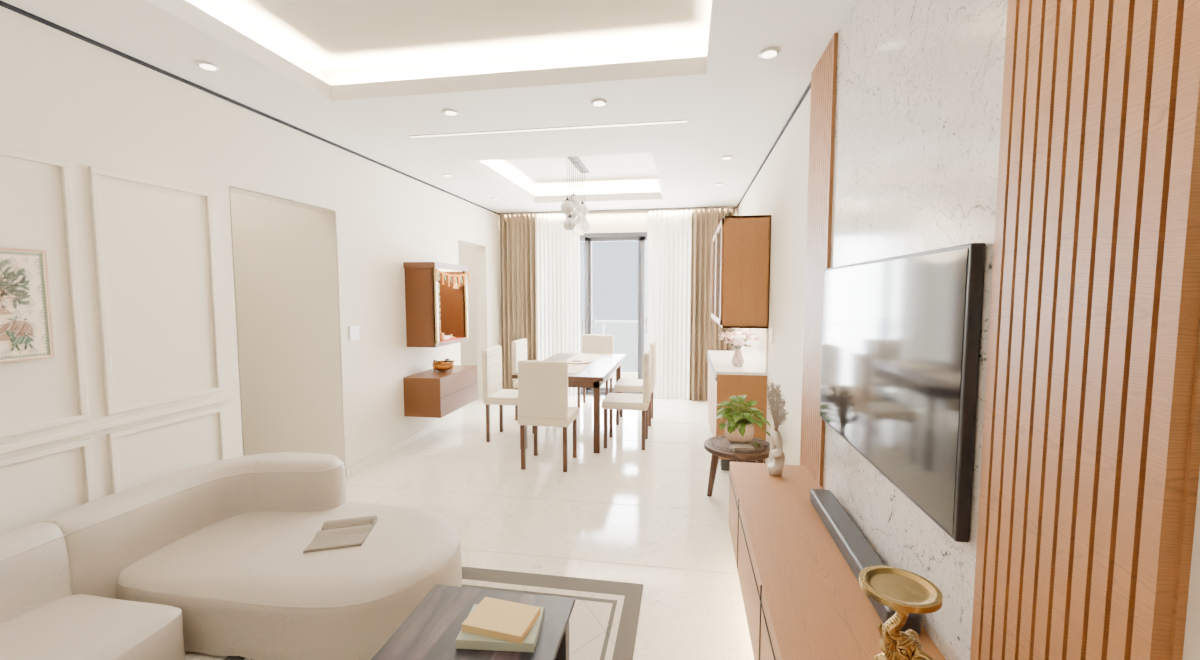
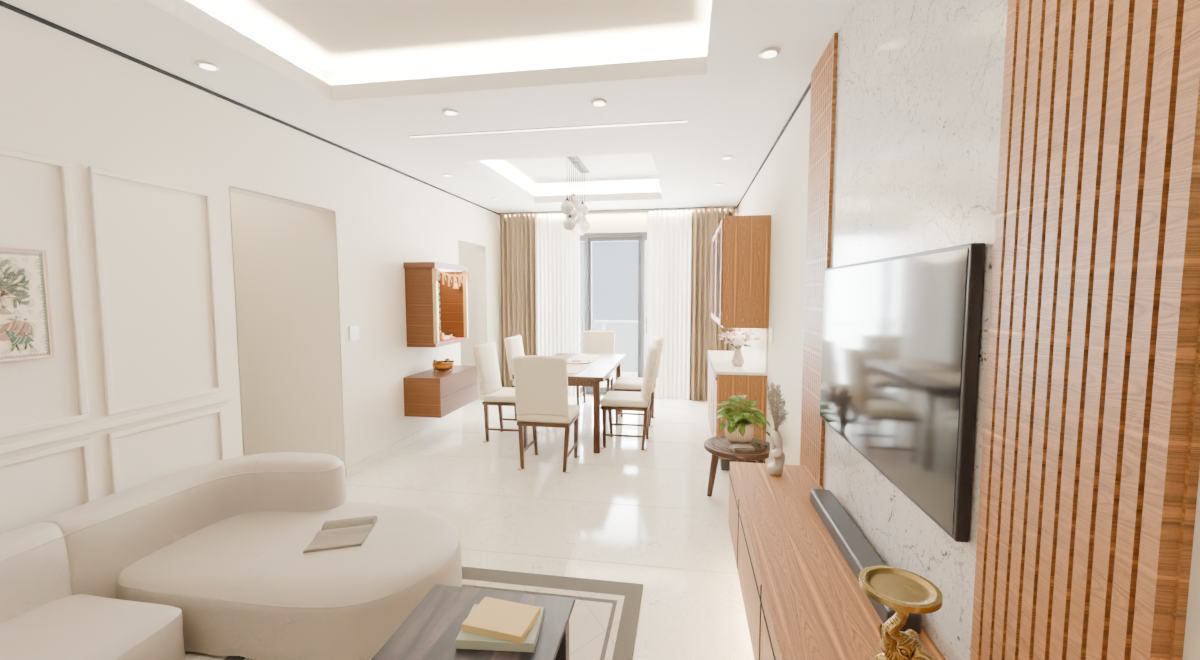
Noida Hall v4 (not baked): walnut-veneer wood grain at kitchen contrast, bevelled cabinetry, clearer smoked glass reflecting the room in the viewer, upholstered chairs (raked curved back, tapered legs, stretchers, brass caps), thicker table top, crockery LED and mandir jaali dimmed

diff --git a/mocks/room-hall/viewer.html b/mocks/room-hall/viewer.html
@@ -409,6 +409,8 @@ async function loadRoom(file = ROOM_FILE) {
       m.material = bakedMaterial(m.material);
     }
     if (/Kitchen|Corridor/i.test(nm)) m.material.side = THREE.DoubleSide;
+    // v4: glass (crockery doors, balcony) reflects the room itself, like a real pane, not the studio env
+    if (/Glass/i.test(m.material.name || '')) { m.material.envMapIntensity = 1.8; m.material.roughness = Math.min(m.material.roughness, 0.03); glassMats.push(m.material); }
   });
   // Contact shadows (2 Nov 2026). A small prop's shadow in the lightmap is too soft to read (the breakfast tray
   // looked as if it floated over the duvet), so placements.json can lay a soft dark patch under one:
@@ -481,6 +483,7 @@ const BAKED_LIGHTS = THREE.ShaderChunk.lights_fragment_begin
   .replace('getAmbientLightIrradiance( ambientLightColor )', 'vec3( 0.0 )')
   .replace(/defined\( USE_LIGHT_PROBES \)/g, 'defined( BAKED_NO_PROBES )');
 const bakedMats = [];
+const glassMats = [];
 const BAKED_EXPOSURE = 1.3;   // as the Quiet Bath: the bake's gain is set by its brightest walls (the cove band may clip)
 function bakedMaterial(src, lift = 1) {
   lift *= BAKED_EXPOSURE;
@@ -506,6 +509,7 @@ function captureRoomEnv() {
   const env = pmrem.fromCubemap(rt.texture).texture; rt.dispose();
   const old = bakedMats[0] && bakedMats[0].envMap;            // captured again once the products are in
   for (const m of bakedMats) { m.envMap = env; m.needsUpdate = true; }
+  for (const m of glassMats) { m.envMap = env; m.needsUpdate = true; }
   if (old) old.dispose();
 }
 

diff --git a/mocks/room-hall/build_hall_v1.py b/mocks/room-hall/build_hall_v1.py
@@ -232,8 +232,16 @@ LAM = (0.60, 0.41, 0.23)
 OAKD = 'oak_veneer_03/oak_veneer_03_diff_2k.jpg'; OAKN = 'oak_veneer_03/oak_veneer_03_nor_gl_2k.jpg'; OAKR = 'oak_veneer_03/oak_veneer_03_rough_2k.jpg'
 LIN = 'rough_linen/rough_linen_diff_2k.jpg'; LINN = 'rough_linen/rough_linen_nor_gl_2k.jpg'
 PLD = 'beige_wall_001/beige_wall_001_diff_2k.jpg'; PLN = 'beige_wall_001/beige_wall_001_nor_gl_2k.jpg'
+WVD = 'walnut_veneer/walnut_veneer_Diffuse_2k.jpg'; WVN = 'walnut_veneer/walnut_veneer_nor_gl_2k.jpg'
 def wood(name, col, contrast, rough=0.45):
-    return pbr(name, scan_img(OAKD, 2048, recolour=col, contrast=contrast, rot90=True), scan_img(OAKN, 1024, False, rot90=True), None, rough=rough, nstr=0.35)
+    # v4 (his 11-21 review: the hall's wood "doesn't look like wood"): the kitchen's walnut-veneer scan, grain pushed as hard
+    # as the kitchen's cabinets (contrast ~1.9) and a pore normal that catches the room's reflection
+    return pbr(name, scan_img(WVD, 2048, recolour=col, contrast=contrast * 1.45), scan_img(WVN, 1024, False), None, rough=rough, nstr=0.6)
+def bev(o, w=0.004):
+    # v4: rounded edges on joined cabinetry so every edge catches a highlight (sharp boxes read as flat cut-outs)
+    bpy.ops.object.select_all(action='DESELECT'); o.select_set(True); bpy.context.view_layer.objects.active = o
+    md = o.modifiers.new('bev', 'BEVEL'); md.width = w; md.segments = 2; md.limit_method = 'ANGLE'; md.harden_normals = False
+    bpy.ops.object.modifier_apply(modifier=md.name); return o
 M = {
     'wall': pbr('Warm White Paint', scan_img('beige_wall_001/beige_wall_001_diff_2k.jpg', 1024, recolour=(0.91, 0.88, 0.82), contrast=0.25),
                 scan_img('beige_wall_001/beige_wall_001_nor_gl_2k.jpg', 1024, False), None, rough=0.85, nstr=0.4),
@@ -255,7 +263,7 @@ M = {
     'gypsum': pbr('Gypsum White', scan_img(PLD, 1024, recolour=(0.94, 0.93, 0.90), contrast=0.1), scan_img(PLN, 1024, False), None, rough=0.85, nstr=0.12),
     'alu': mat('Dark Grey Aluminium', (0.10, 0.10, 0.11, 1), 0.4),
     'glass': mat('Glass', (0.85, 0.90, 0.92, 1), 0.02, alpha=0.08),
-    'bronzeglass': mat('Bronze Glass', (0.20, 0.15, 0.10, 1), 0.05, alpha=0.45),
+    'bronzeglass': mat('Smoked Glass', (0.42, 0.38, 0.33, 1), 0.02, alpha=0.22),
     'mirror': mat('Mirror', (0.70, 0.72, 0.74, 1), 0.03, 1.0),
     'matblack': mat('Matte Black', (0.02, 0.02, 0.022, 1), 0.45),
     'tvblack': mat('TV Screen', (0.008, 0.009, 0.011, 1), 0.08),
@@ -452,7 +460,7 @@ dado = join(mo, 'LM_Dado'); world_uv(dado, 3.0); lm(dado, 256)
 sc = [bx('Shoe Cab', X1 - 0.35, X1, -3.80, -2.90, 0.15, 0.95, M['oak']), bx('Shoe Top', X1 - 0.36, X1, -3.81, -2.89, 0.95, 0.975, M['quartz']),
       bx('Shoe Gap', X1 - 0.353, X1 - 0.35, -3.352, -3.348, 0.16, 0.94, M['gap']), bx('Shoe Glow', X1 - 0.30, X1 - 0.05, -3.75, -2.95, 0.145, 0.15, M['led']),
       bx('Shoe Handle', X1 - 0.362, X1 - 0.35, -3.79, -2.91, 0.905, 0.935, M['alu']), bx('Shoe Edge', X1 - 0.351, X1 - 0.35, -3.80, -2.90, 0.15, 0.152, M['gap'])]
-shoe = join(sc, 'LM_ShoeCab'); world_uv(shoe, 1.2); lm(shoe, 512)
+shoe = bev(join(sc, 'LM_ShoeCab')); world_uv(shoe, 1.2); lm(shoe, 512)
 CU0, CU1 = 0.95, 2.55; CD = 0.42
 cu = [bx('CU Plinth', X1 - CD + 0.05, X1, CU0, CU1, 0, 0.10, M['matblack']), bx('CU Base', X1 - CD, X1, CU0, CU1, 0.10, 0.85, M['oak']),
       bx('CU Top', X1 - CD - 0.01, X1, CU0 - 0.01, CU1 + 0.01, 0.85, 0.875, M['quartz']), bx('CU Niche Back', X1 - 0.015, X1, CU0, CU1, 0.875, 1.25, M['whitemarble']),
@@ -466,10 +474,11 @@ cu += [bx('CU Glass Shelf Edge', X1 - 0.37, X1 - 0.012, CU0 + 0.02, CU1 - 0.02, 
 for a, b in ((CU0 + 0.02, (CU0 + CU1) / 2 - 0.01), ((CU0 + CU1) / 2 + 0.01, CU1 - 0.02)):          # glass doors' oak frames
     for xa, xb, za, zb in ((a, b, 1.27, 1.32), (a, b, 2.13, 2.18), (a, a + 0.05, 1.32, 2.13), (b - 0.05, b, 1.32, 2.13)):
         cu.append(bx('CU Door Frame', X1 - 0.40, X1 - 0.38, xa, xb, za, zb, M['oak']))
-crock = join(cu, 'LM_Crockery'); world_uv(crock, 1.2); lm(crock, 2048)
+crock = bev(join(cu, 'LM_Crockery')); world_uv(crock, 1.2); lm(crock, 2048)
 for a, b in ((CU0 + 0.07, (CU0 + CU1) / 2 - 0.06), ((CU0 + CU1) / 2 + 0.06, CU1 - 0.07)):
     g_ = bx('CU Glass', X1 - 0.395, X1 - 0.39, a, b, 1.32, 2.13, M['bronzeglass']); g_.visible_shadow = False; GLASS.append(g_)
-glow += [bx('CU Glow', X1 - 0.30, X1 - 0.05, CU0 + 0.05, CU1 - 0.05, 1.245, 1.25, M['led'])]
+CUGLOW = mat('Cabinet LED (soft)', (1, 0.9, 0.75, 1), 0.5, emit=((1.0, 0.85, 0.62, 1), 2.2))   # v4: was the 6.0 LED strip
+glow += [bx('CU Glow', X1 - 0.30, X1 - 0.05, CU0 + 0.05, CU1 - 0.05, 1.245, 1.25, CUGLOW)]
 
 # ---------------------------------------------------------------- mandir on the left wall (between kitchen and passage): drawer unit, temple box, arch glow
 MY0, MY1 = 1.15, 2.05; MC = (MY0 + MY1) / 2
@@ -478,7 +487,7 @@ md = [bx('Mandir Drawers', X0, X0 + 0.40, MY0, MY1, 0.30, 0.70, M['teak']), bx('
       bx('Mandir Side', X0, X0 + 0.30, MY0 + 0.08, MY0 + 0.12, 1.04, 1.80, M['teak']), bx('Mandir Side', X0, X0 + 0.30, MY1 - 0.12, MY1 - 0.08, 1.04, 1.80, M['teak']),
       bx('Mandir Back', X0, X0 + 0.012, MY0 + 0.12, MY1 - 0.12, 1.04, 1.80, M['white']),
       bx('Mandir Pillar', X0 + 0.30, X0 + 0.34, MY0 + 0.08, MY0 + 0.12, 1.04, 1.80, M['brass']), bx('Mandir Pillar', X0 + 0.30, X0 + 0.34, MY1 - 0.12, MY1 - 0.08, 1.04, 1.80, M['brass'])]
-mandir = join(md, 'LM_Mandir'); world_uv(mandir, 1.0, vertical_grain=True); lm(mandir, 1024)
+mandir = bev(join(md, 'LM_Mandir')); world_uv(mandir, 1.0, vertical_grain=True); lm(mandir, 1024)
 glow += [bx('Mandir Glow', X0 + 0.02, X0 + 0.30, MY0 + 0.13, MY1 - 0.13, 1.795, 1.80, M['led'])]
 # v2 mandir detail: a backlit CNC jaali (overlapping-circle lotus lattice in teak over warm light) behind the idol
 def jaali_image():
@@ -494,7 +503,7 @@ def jaali_image():
     return SL.img('jaali_col', np.clip(rgb, 0, 1), TMP)
 JAALI = mat('Jaali Backlit', (0, 0, 0, 1), 0.6)
 _jb = JAALI.node_tree.nodes['Principled BSDF']; _jt = JAALI.node_tree.nodes.new('ShaderNodeTexImage'); _jt.image = jaali_image()
-JAALI.node_tree.links.new(_jt.outputs['Color'], _jb.inputs['Emission Color']); _jb.inputs['Emission Strength'].default_value = 2.2
+JAALI.node_tree.links.new(_jt.outputs['Color'], _jb.inputs['Emission Color']); _jb.inputs['Emission Strength'].default_value = 1.2   # v4: was 2.2
 _jo = bx('Mandir Jaali', X0 + 0.012, X0 + 0.016, MY0 + 0.12, MY1 - 0.12, 1.08, 1.795, JAALI); world_uv(_jo, 0.56); glow.append(_jo)   # 14 cm flowers
 for g_ in glow: g_.visible_shadow = False
 
@@ -545,16 +554,44 @@ def lathe(name, prof, m, loc, seg=40):
     o = SL.lathe(name, prof, m, seg=seg); o.location = loc; STAGE.append(o); return o
 def S(o): STAGE.append(o); return o
 TX, TY = -0.15, 2.05
-S(box('Table Top', (TX, TY, 0.74), (0.90, 1.80, 0.04), M['walnut'], 0.004))
+S(box('Table Top', (TX, TY, 0.737), (0.90, 1.80, 0.046), M['walnut'], 0.008))
 for sx in (-1, 1):
     for sy in (-1, 1): S(box('Table Leg', (TX + sx * 0.37, TY + sy * 0.80, 0.36), (0.06, 0.06, 0.72), M['walnut'], 0.004))
 S(box('Table Apron', (TX, TY, 0.68), (0.68, 1.54, 0.08), M['walnut'], 0.003))     # set between the legs (a shared face baked black)
 for o in STAGE: world_uv(o, 1.2)
 def chair(x, y, rz):
+    """v4: an upholstered dining chair: a thick cushioned seat with a sewn welt, a back that rakes 8 degrees and curves
+    round the sitter (a bent panel), a walnut frame showing under the seat, tapered splayed legs with brass caps and
+    side stretchers. Front of the chair is -y in its own frame."""
     from mathutils import Matrix
-    parts = [box('Seat', (0, 0, 0.44), (0.46, 0.46, 0.08), M['fabric'], 0.02), box('Back', (0, 0.21, 0.72), (0.44, 0.06, 0.50), M['fabric'], 0.02)]
-    for lx in (-0.19, 0.19):
-        for ly in (-0.19, 0.19): parts.append(box('Chair Leg', (lx, ly, 0.20), (0.035, 0.035, 0.40), M['walnut'], 0.003))
+    import bmesh as _bm
+    parts = []
+    # seat cushion: a rounded slab (bevel 2.5 cm) on a walnut seat frame
+    parts.append(box('Seat Frame', (0, 0, 0.415), (0.47, 0.47, 0.035), M['walnut'], 0.006))
+    parts.append(box('Seat', (0, -0.005, 0.465), (0.48, 0.47, 0.07), M['fabric'], 0.028, segs=4))
+    parts.append(box('Seat Welt', (0, -0.245, 0.462), (0.44, 0.012, 0.012), M['fabric'], 0.005))
+    # back: a curved, raked panel (bent in an arc of 0.06 m sag), padded
+    bpy.ops.mesh.primitive_cube_add(size=1); bk = bpy.context.active_object; bk.name = 'Back'
+    bk.scale = (0.46, 0.07, 0.52); bpy.ops.object.transform_apply(scale=True)
+    bm = _bm.new(); bm.from_mesh(bk.data)
+    _bm.ops.subdivide_edges(bm, edges=[e for e in bm.edges if abs(e.verts[0].co.x - e.verts[1].co.x) > 0.1], cuts=10, use_grid_fill=True)
+    for v in bm.verts: v.co.y += 0.05 * (2 * v.co.x / 0.46) ** 2          # a squared panel that wraps round the sitter
+    bm.to_mesh(bk.data); bm.free()
+    md = bk.modifiers.new('bev', 'BEVEL'); md.width = 0.022; md.segments = 4; md.limit_method = 'ANGLE'
+    bpy.ops.object.modifier_apply(modifier=md.name)          # padded, rounded edges (a smooth box, not an egg)
+    bk.data.materials.append(M['fabric'])
+    bk.rotation_euler = (math.radians(-8), 0, 0); bk.location = (0, 0.215, 0.76)
+    bpy.ops.object.transform_apply(location=True, rotation=True)
+    for p in bk.data.polygons: p.use_smooth = True
+    parts.append(bk)
+    # legs: tapered (4 cm at the seat to 2.6 cm at the floor), splayed 3 degrees, brass caps
+    for lx in (-0.20, 0.20):
+        for ly in (-0.20, 0.20):
+            bpy.ops.mesh.primitive_cone_add(vertices=4, radius1=0.019, radius2=0.028, depth=0.40, location=(lx, ly, 0.20))
+            lg = bpy.context.active_object; lg.name = 'Chair Leg'; lg.rotation_euler = (math.radians(-3 * (ly > 0) + 3 * (ly < 0)), math.radians(3 * (lx > 0) - 3 * (lx < 0)), math.pi / 4)
+            bpy.ops.object.transform_apply(location=True, rotation=True); lg.data.materials.append(M['walnut']); parts.append(lg)
+            parts.append(box('Leg Cap', (lx * 1.08, ly * 1.08, 0.008), (0.03, 0.03, 0.016), M['brass'], 0.004))
+        parts.append(box('Stretcher', (lx * 1.04, 0, 0.14), (0.018, 0.38, 0.022), M['walnut'], 0.004))
     o = SL.join(parts, 'Dining Chair'); o.matrix_world = Matrix.Translation((x, y, 0)) @ Matrix.Rotation(rz, 4, 'Z'); STAGE.append(o)
     bpy.context.view_layer.update(); world_uv(o, 0.45)
 for yy in (TY - 0.45, TY + 0.45):

diff --git a/mocks/room-hall/hall_body.py b/mocks/room-hall/hall_body.py
@@ -40,8 +40,16 @@ LAM = (0.60, 0.41, 0.23)
 OAKD = 'oak_veneer_03/oak_veneer_03_diff_2k.jpg'; OAKN = 'oak_veneer_03/oak_veneer_03_nor_gl_2k.jpg'; OAKR = 'oak_veneer_03/oak_veneer_03_rough_2k.jpg'
 LIN = 'rough_linen/rough_linen_diff_2k.jpg'; LINN = 'rough_linen/rough_linen_nor_gl_2k.jpg'
 PLD = 'beige_wall_001/beige_wall_001_diff_2k.jpg'; PLN = 'beige_wall_001/beige_wall_001_nor_gl_2k.jpg'
+WVD = 'walnut_veneer/walnut_veneer_Diffuse_2k.jpg'; WVN = 'walnut_veneer/walnut_veneer_nor_gl_2k.jpg'
 def wood(name, col, contrast, rough=0.45):
-    return pbr(name, scan_img(OAKD, 2048, recolour=col, contrast=contrast, rot90=True), scan_img(OAKN, 1024, False, rot90=True), None, rough=rough, nstr=0.35)
+    # v4 (his 11-21 review: the hall's wood "doesn't look like wood"): the kitchen's walnut-veneer scan, grain pushed as hard
+    # as the kitchen's cabinets (contrast ~1.9) and a pore normal that catches the room's reflection
+    return pbr(name, scan_img(WVD, 2048, recolour=col, contrast=contrast * 1.45), scan_img(WVN, 1024, False), None, rough=rough, nstr=0.6)
+def bev(o, w=0.004):
+    # v4: rounded edges on joined cabinetry so every edge catches a highlight (sharp boxes read as flat cut-outs)
+    bpy.ops.object.select_all(action='DESELECT'); o.select_set(True); bpy.context.view_layer.objects.active = o
+    md = o.modifiers.new('bev', 'BEVEL'); md.width = w; md.segments = 2; md.limit_method = 'ANGLE'; md.harden_normals = False
+    bpy.ops.object.modifier_apply(modifier=md.name); return o
 M = {
     'wall': pbr('Warm White Paint', scan_img('beige_wall_001/beige_wall_001_diff_2k.jpg', 1024, recolour=(0.91, 0.88, 0.82), contrast=0.25),
                 scan_img('beige_wall_001/beige_wall_001_nor_gl_2k.jpg', 1024, False), None, rough=0.85, nstr=0.4),
@@ -63,7 +71,7 @@ M = {
     'gypsum': pbr('Gypsum White', scan_img(PLD, 1024, recolour=(0.94, 0.93, 0.90), contrast=0.1), scan_img(PLN, 1024, False), None, rough=0.85, nstr=0.12),
     'alu': mat('Dark Grey Aluminium', (0.10, 0.10, 0.11, 1), 0.4),
     'glass': mat('Glass', (0.85, 0.90, 0.92, 1), 0.02, alpha=0.08),
-    'bronzeglass': mat('Bronze Glass', (0.20, 0.15, 0.10, 1), 0.05, alpha=0.45),
+    'bronzeglass': mat('Smoked Glass', (0.42, 0.38, 0.33, 1), 0.02, alpha=0.22),
     'mirror': mat('Mirror', (0.70, 0.72, 0.74, 1), 0.03, 1.0),
     'matblack': mat('Matte Black', (0.02, 0.02, 0.022, 1), 0.45),
     'tvblack': mat('TV Screen', (0.008, 0.009, 0.011, 1), 0.08),
@@ -260,7 +268,7 @@ dado = join(mo, 'LM_Dado'); world_uv(dado, 3.0); lm(dado, 256)
 sc = [bx('Shoe Cab', X1 - 0.35, X1, -3.80, -2.90, 0.15, 0.95, M['oak']), bx('Shoe Top', X1 - 0.36, X1, -3.81, -2.89, 0.95, 0.975, M['quartz']),
       bx('Shoe Gap', X1 - 0.353, X1 - 0.35, -3.352, -3.348, 0.16, 0.94, M['gap']), bx('Shoe Glow', X1 - 0.30, X1 - 0.05, -3.75, -2.95, 0.145, 0.15, M['led']),
       bx('Shoe Handle', X1 - 0.362, X1 - 0.35, -3.79, -2.91, 0.905, 0.935, M['alu']), bx('Shoe Edge', X1 - 0.351, X1 - 0.35, -3.80, -2.90, 0.15, 0.152, M['gap'])]
-shoe = join(sc, 'LM_ShoeCab'); world_uv(shoe, 1.2); lm(shoe, 512)
+shoe = bev(join(sc, 'LM_ShoeCab')); world_uv(shoe, 1.2); lm(shoe, 512)
 CU0, CU1 = 0.95, 2.55; CD = 0.42
 cu = [bx('CU Plinth', X1 - CD + 0.05, X1, CU0, CU1, 0, 0.10, M['matblack']), bx('CU Base', X1 - CD, X1, CU0, CU1, 0.10, 0.85, M['oak']),
       bx('CU Top', X1 - CD - 0.01, X1, CU0 - 0.01, CU1 + 0.01, 0.85, 0.875, M['quartz']), bx('CU Niche Back', X1 - 0.015, X1, CU0, CU1, 0.875, 1.25, M['whitemarble']),
@@ -274,10 +282,11 @@ cu += [bx('CU Glass Shelf Edge', X1 - 0.37, X1 - 0.012, CU0 + 0.02, CU1 - 0.02, 
 for a, b in ((CU0 + 0.02, (CU0 + CU1) / 2 - 0.01), ((CU0 + CU1) / 2 + 0.01, CU1 - 0.02)):          # glass doors' oak frames
     for xa, xb, za, zb in ((a, b, 1.27, 1.32), (a, b, 2.13, 2.18), (a, a + 0.05, 1.32, 2.13), (b - 0.05, b, 1.32, 2.13)):
         cu.append(bx('CU Door Frame', X1 - 0.40, X1 - 0.38, xa, xb, za, zb, M['oak']))
-crock = join(cu, 'LM_Crockery'); world_uv(crock, 1.2); lm(crock, 2048)
+crock = bev(join(cu, 'LM_Crockery')); world_uv(crock, 1.2); lm(crock, 2048)
 for a, b in ((CU0 + 0.07, (CU0 + CU1) / 2 - 0.06), ((CU0 + CU1) / 2 + 0.06, CU1 - 0.07)):
     g_ = bx('CU Glass', X1 - 0.395, X1 - 0.39, a, b, 1.32, 2.13, M['bronzeglass']); g_.visible_shadow = False; GLASS.append(g_)
-glow += [bx('CU Glow', X1 - 0.30, X1 - 0.05, CU0 + 0.05, CU1 - 0.05, 1.245, 1.25, M['led'])]
+CUGLOW = mat('Cabinet LED (soft)', (1, 0.9, 0.75, 1), 0.5, emit=((1.0, 0.85, 0.62, 1), 2.2))   # v4: was the 6.0 LED strip
+glow += [bx('CU Glow', X1 - 0.30, X1 - 0.05, CU0 + 0.05, CU1 - 0.05, 1.245, 1.25, CUGLOW)]
 
 # ---------------------------------------------------------------- mandir on the left wall (between kitchen and passage): drawer unit, temple box, arch glow
 MY0, MY1 = 1.15, 2.05; MC = (MY0 + MY1) / 2
@@ -286,7 +295,7 @@ md = [bx('Mandir Drawers', X0, X0 + 0.40, MY0, MY1, 0.30, 0.70, M['teak']), bx('
       bx('Mandir Side', X0, X0 + 0.30, MY0 + 0.08, MY0 + 0.12, 1.04, 1.80, M['teak']), bx('Mandir Side', X0, X0 + 0.30, MY1 - 0.12, MY1 - 0.08, 1.04, 1.80, M['teak']),
       bx('Mandir Back', X0, X0 + 0.012, MY0 + 0.12, MY1 - 0.12, 1.04, 1.80, M['white']),
       bx('Mandir Pillar', X0 + 0.30, X0 + 0.34, MY0 + 0.08, MY0 + 0.12, 1.04, 1.80, M['brass']), bx('Mandir Pillar', X0 + 0.30, X0 + 0.34, MY1 - 0.12, MY1 - 0.08, 1.04, 1.80, M['brass'])]
-mandir = join(md, 'LM_Mandir'); world_uv(mandir, 1.0, vertical_grain=True); lm(mandir, 1024)
+mandir = bev(join(md, 'LM_Mandir')); world_uv(mandir, 1.0, vertical_grain=True); lm(mandir, 1024)
 glow += [bx('Mandir Glow', X0 + 0.02, X0 + 0.30, MY0 + 0.13, MY1 - 0.13, 1.795, 1.80, M['led'])]
 # v2 mandir detail: a backlit CNC jaali (overlapping-circle lotus lattice in teak over warm light) behind the idol
 def jaali_image():
@@ -302,7 +311,7 @@ def jaali_image():
     return SL.img('jaali_col', np.clip(rgb, 0, 1), TMP)
 JAALI = mat('Jaali Backlit', (0, 0, 0, 1), 0.6)
 _jb = JAALI.node_tree.nodes['Principled BSDF']; _jt = JAALI.node_tree.nodes.new('ShaderNodeTexImage'); _jt.image = jaali_image()
-JAALI.node_tree.links.new(_jt.outputs['Color'], _jb.inputs['Emission Color']); _jb.inputs['Emission Strength'].default_value = 2.2
+JAALI.node_tree.links.new(_jt.outputs['Color'], _jb.inputs['Emission Color']); _jb.inputs['Emission Strength'].default_value = 1.2   # v4: was 2.2
 _jo = bx('Mandir Jaali', X0 + 0.012, X0 + 0.016, MY0 + 0.12, MY1 - 0.12, 1.08, 1.795, JAALI); world_uv(_jo, 0.56); glow.append(_jo)   # 14 cm flowers
 for g_ in glow: g_.visible_shadow = False
 
@@ -353,16 +362,44 @@ def lathe(name, prof, m, loc, seg=40):
     o = SL.lathe(name, prof, m, seg=seg); o.location = loc; STAGE.append(o); return o
 def S(o): STAGE.append(o); return o
 TX, TY = -0.15, 2.05
-S(box('Table Top', (TX, TY, 0.74), (0.90, 1.80, 0.04), M['walnut'], 0.004))
+S(box('Table Top', (TX, TY, 0.737), (0.90, 1.80, 0.046), M['walnut'], 0.008))
 for sx in (-1, 1):
     for sy in (-1, 1): S(box('Table Leg', (TX + sx * 0.37, TY + sy * 0.80, 0.36), (0.06, 0.06, 0.72), M['walnut'], 0.004))
 S(box('Table Apron', (TX, TY, 0.68), (0.68, 1.54, 0.08), M['walnut'], 0.003))     # set between the legs (a shared face baked black)
 for o in STAGE: world_uv(o, 1.2)
 def chair(x, y, rz):
+    """v4: an upholstered dining chair: a thick cushioned seat with a sewn welt, a back that rakes 8 degrees and curves
+    round the sitter (a bent panel), a walnut frame showing under the seat, tapered splayed legs with brass caps and
+    side stretchers. Front of the chair is -y in its own frame."""
     from mathutils import Matrix
-    parts = [box('Seat', (0, 0, 0.44), (0.46, 0.46, 0.08), M['fabric'], 0.02), box('Back', (0, 0.21, 0.72), (0.44, 0.06, 0.50), M['fabric'], 0.02)]
-    for lx in (-0.19, 0.19):
-        for ly in (-0.19, 0.19): parts.append(box('Chair Leg', (lx, ly, 0.20), (0.035, 0.035, 0.40), M['walnut'], 0.003))
+    import bmesh as _bm
+    parts = []
+    # seat cushion: a rounded slab (bevel 2.5 cm) on a walnut seat frame
+    parts.append(box('Seat Frame', (0, 0, 0.415), (0.47, 0.47, 0.035), M['walnut'], 0.006))
+    parts.append(box('Seat', (0, -0.005, 0.465), (0.48, 0.47, 0.07), M['fabric'], 0.028, segs=4))
+    parts.append(box('Seat Welt', (0, -0.245, 0.462), (0.44, 0.012, 0.012), M['fabric'], 0.005))
+    # back: a curved, raked panel (bent in an arc of 0.06 m sag), padded
+    bpy.ops.mesh.primitive_cube_add(size=1); bk = bpy.context.active_object; bk.name = 'Back'
+    bk.scale = (0.46, 0.07, 0.52); bpy.ops.object.transform_apply(scale=True)
+    bm = _bm.new(); bm.from_mesh(bk.data)
+    _bm.ops.subdivide_edges(bm, edges=[e for e in bm.edges if abs(e.verts[0].co.x - e.verts[1].co.x) > 0.1], cuts=10, use_grid_fill=True)
+    for v in bm.verts: v.co.y += 0.05 * (2 * v.co.x / 0.46) ** 2          # a squared panel that wraps round the sitter
+    bm.to_mesh(bk.data); bm.free()
+    md = bk.modifiers.new('bev', 'BEVEL'); md.width = 0.022; md.segments = 4; md.limit_method = 'ANGLE'
+    bpy.ops.object.modifier_apply(modifier=md.name)          # padded, rounded edges (a smooth box, not an egg)
+    bk.data.materials.append(M['fabric'])
+    bk.rotation_euler = (math.radians(-8), 0, 0); bk.location = (0, 0.215, 0.76)
+    bpy.ops.object.transform_apply(location=True, rotation=True)
+    for p in bk.data.polygons: p.use_smooth = True
+    parts.append(bk)
+    # legs: tapered (4 cm at the seat to 2.6 cm at the floor), splayed 3 degrees, brass caps
+    for lx in (-0.20, 0.20):
+        for ly in (-0.20, 0.20):
+            bpy.ops.mesh.primitive_cone_add(vertices=4, radius1=0.019, radius2=0.028, depth=0.40, location=(lx, ly, 0.20))
+            lg = bpy.context.active_object; lg.name = 'Chair Leg'; lg.rotation_euler = (math.radians(-3 * (ly > 0) + 3 * (ly < 0)), math.radians(3 * (lx > 0) - 3 * (lx < 0)), math.pi / 4)
+            bpy.ops.object.transform_apply(location=True, rotation=True); lg.data.materials.append(M['walnut']); parts.append(lg)
+            parts.append(box('Leg Cap', (lx * 1.08, ly * 1.08, 0.008), (0.03, 0.03, 0.016), M['brass'], 0.004))
+        parts.append(box('Stretcher', (lx * 1.04, 0, 0.14), (0.018, 0.38, 0.022), M['walnut'], 0.004))
     o = SL.join(parts, 'Dining Chair'); o.matrix_world = Matrix.Translation((x, y, 0)) @ Matrix.Rotation(rz, 4, 'Z'); STAGE.append(o)
     bpy.context.view_layer.update(); world_uv(o, 0.45)
 for yy in (TY - 0.45, TY + 0.45):
